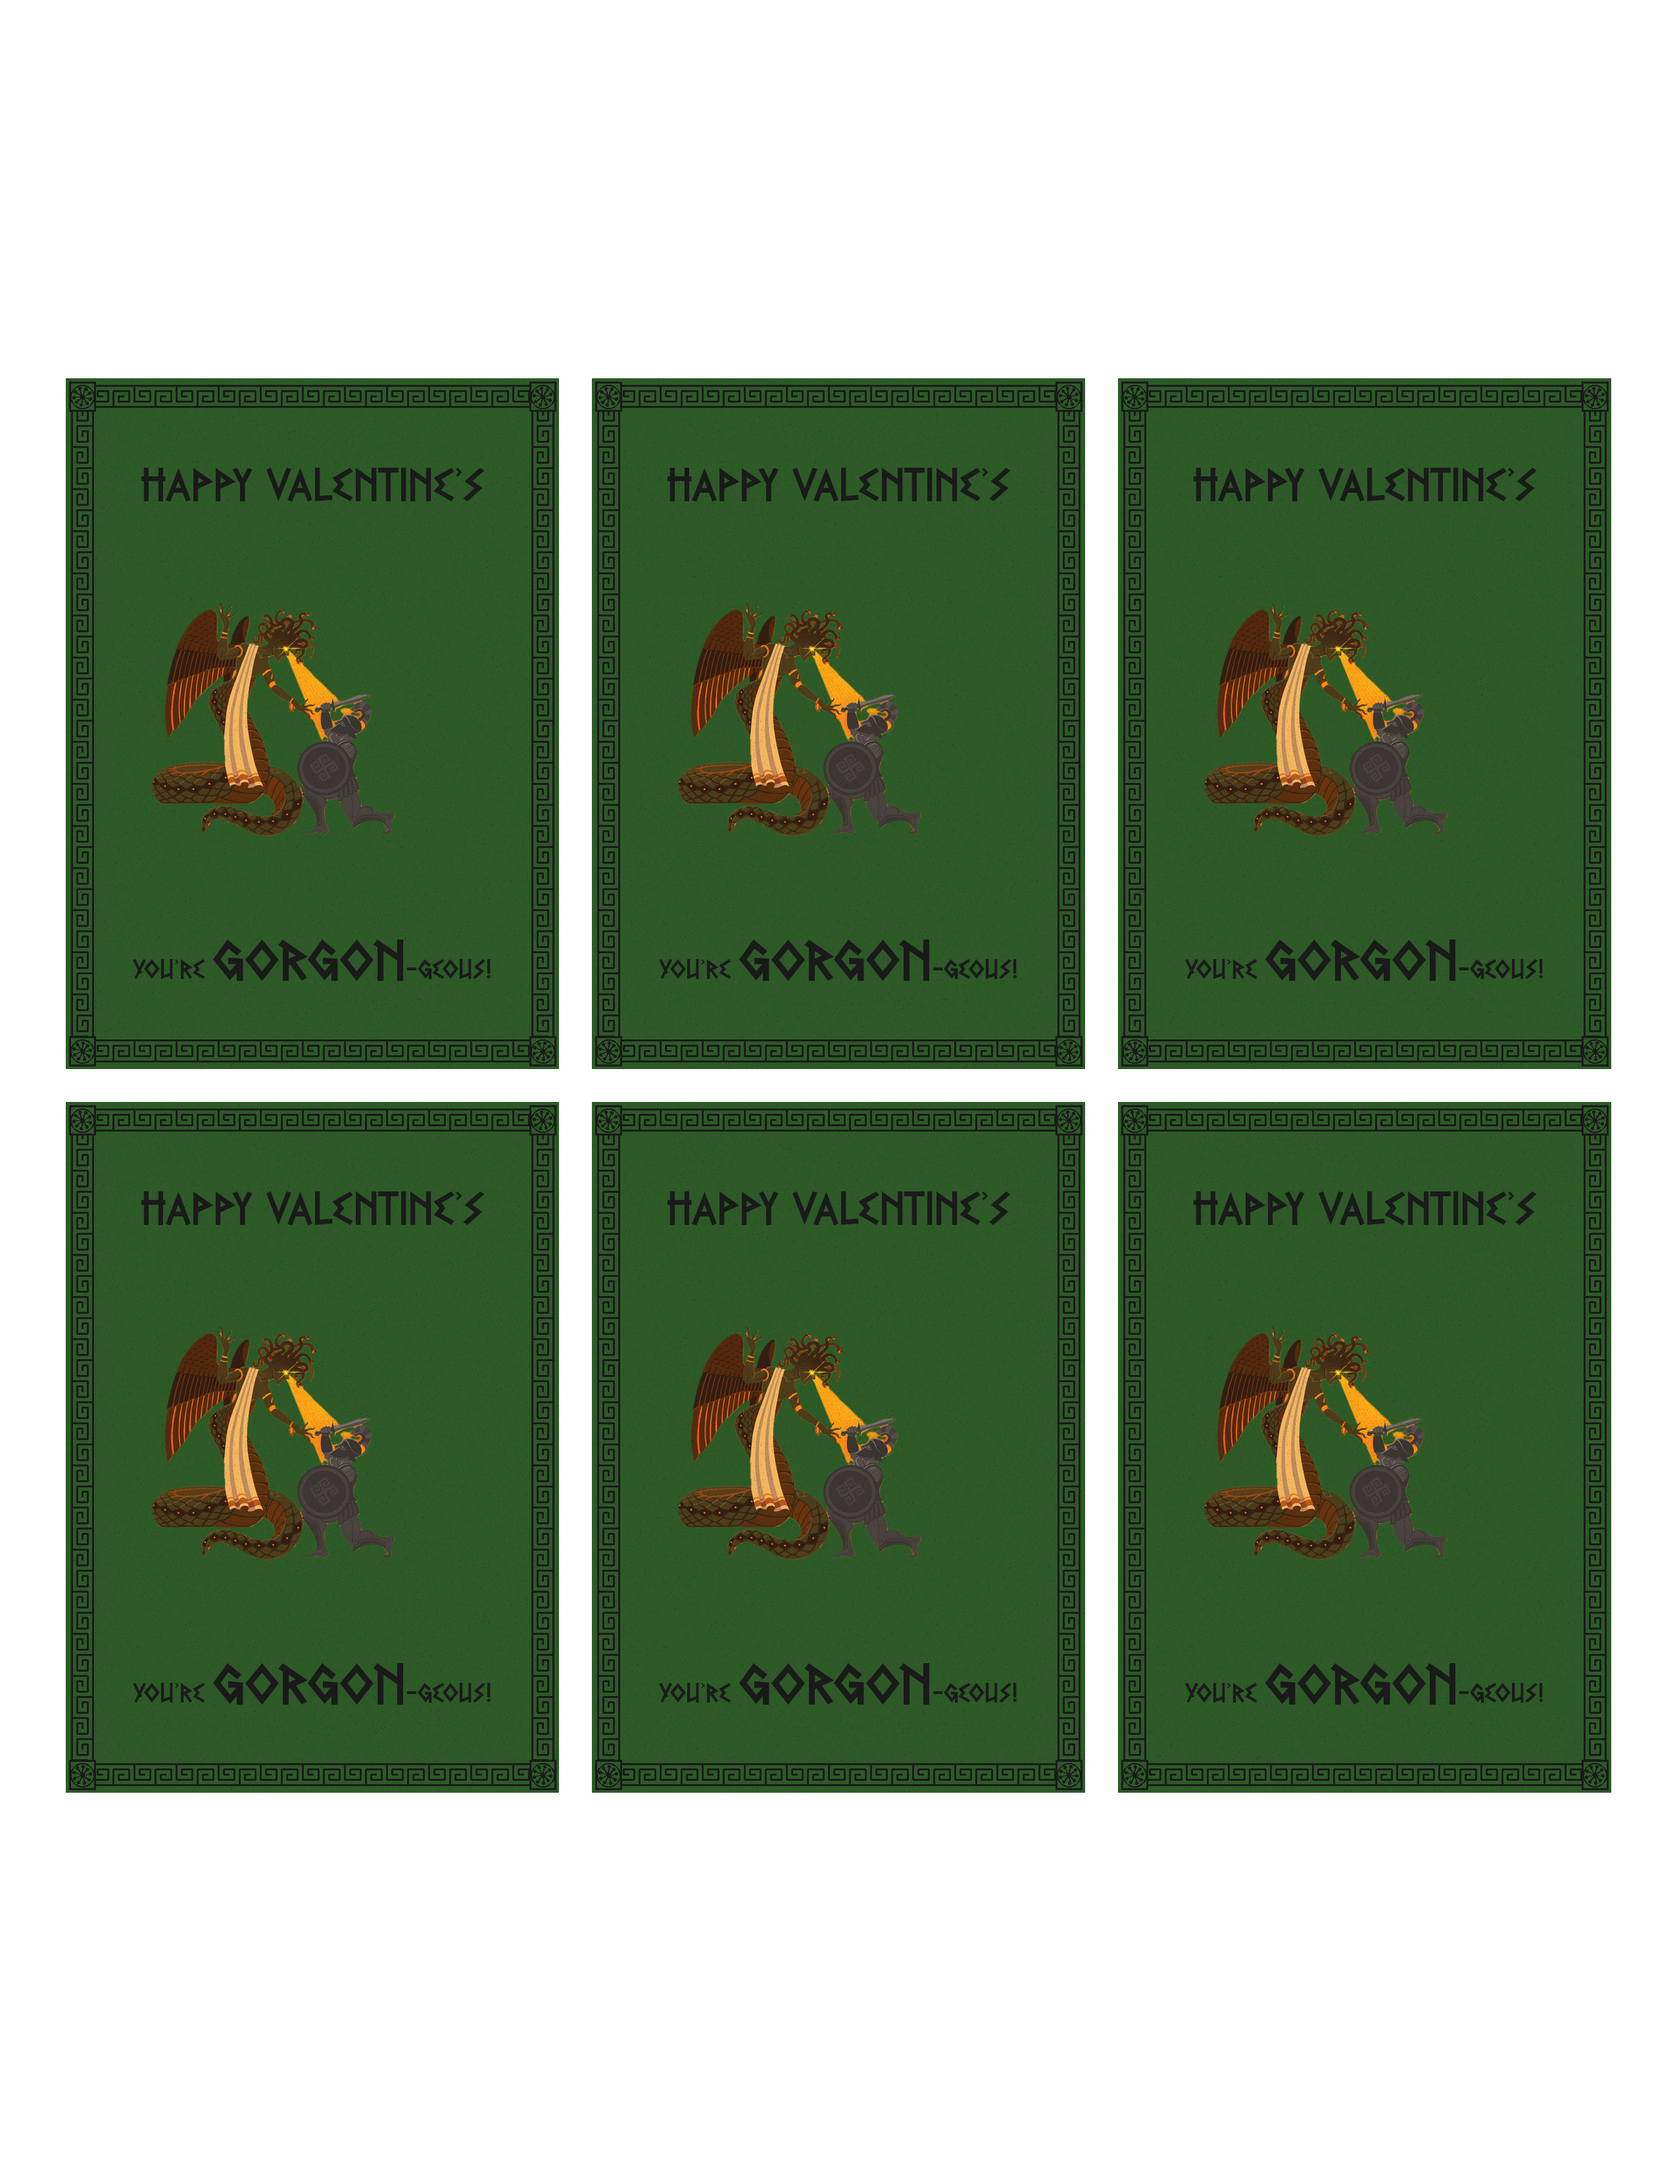
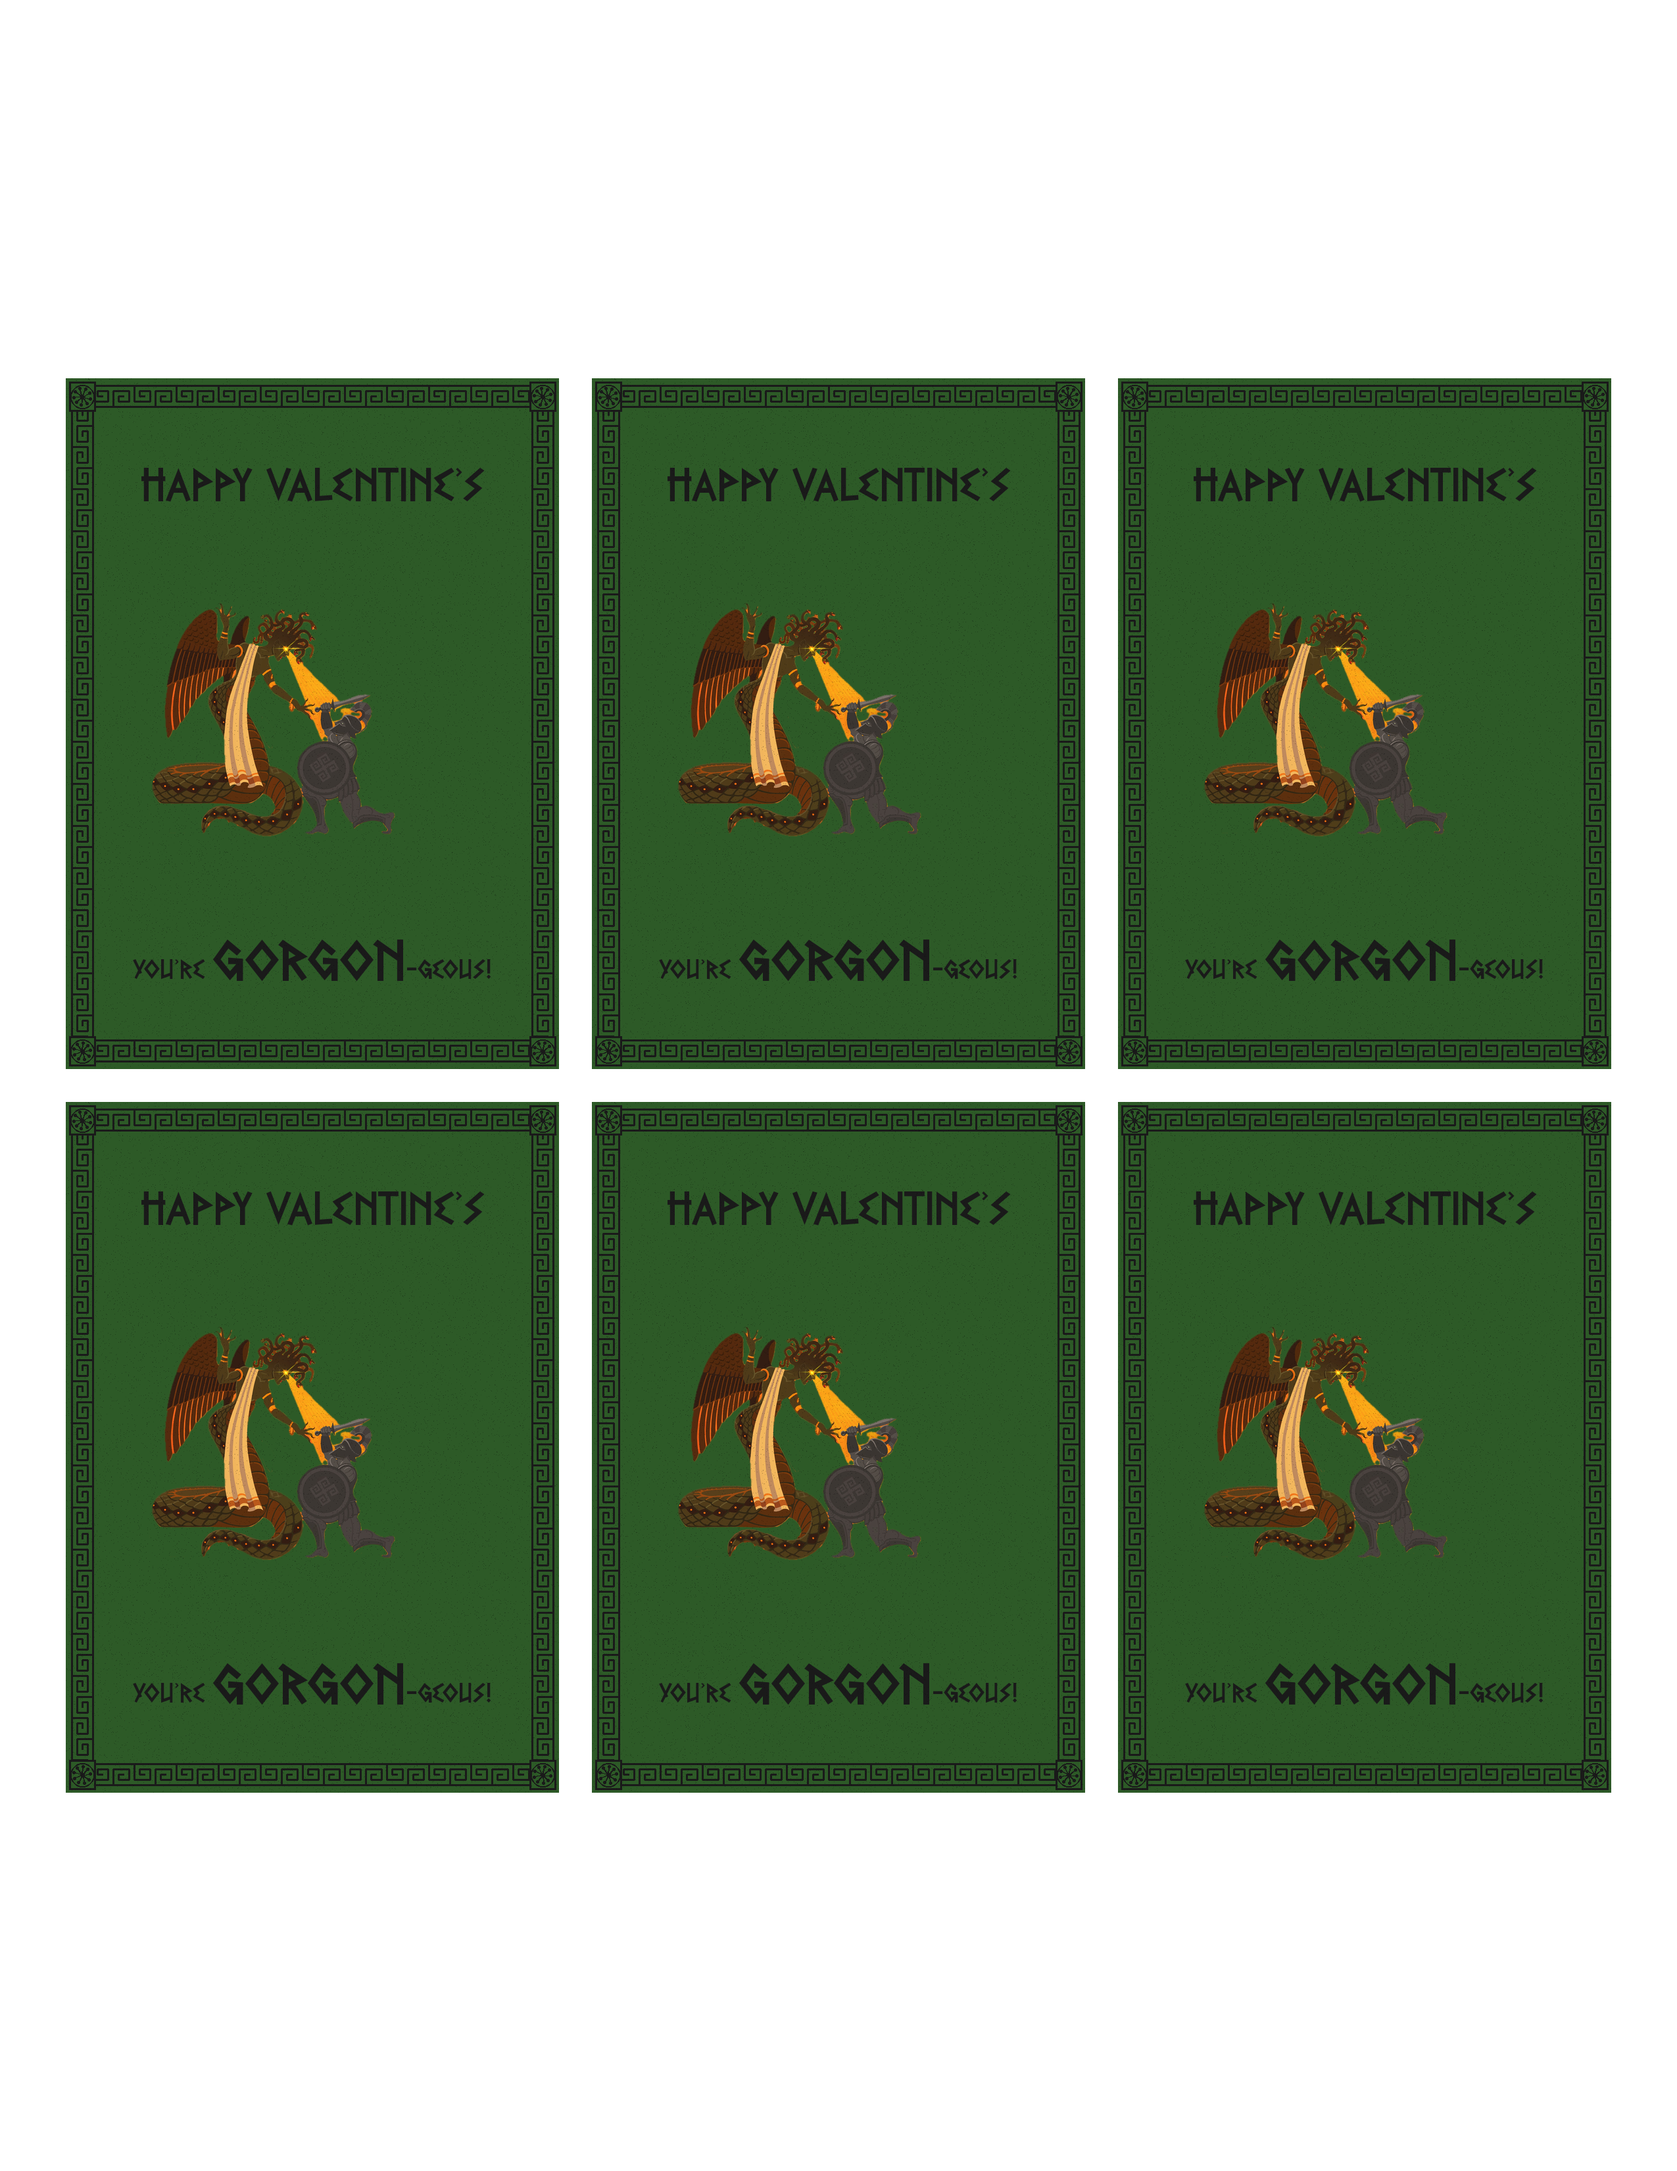
Fix snake head/tail positioning to connect with maze walls

diff --git a/src/greek_design_system.py b/src/greek_design_system.py
@@ -604,19 +604,23 @@ def generate_greek_card_back(
     if wall_type == "snake":
         from wall_renderers import SnakeWallRenderer
 
-        # Calculate entrance/exit positions
+        # Calculate entrance/exit positions - connect to the wall openings
         entrance_col = maze_cols // 2
+        # Head connects at the top of the maze entrance gap
         entrance_x = maze_x + entrance_col * cell_size + cell_size // 2
-        entrance_y = maze_y - 5
+        entrance_y = maze_y  # Right at the top edge of maze
 
+        # Tail connects at the bottom of the maze exit gap
         exit_x = entrance_x
-        exit_y = maze_y + maze_rows * cell_size + 5
+        exit_y = maze_y + maze_rows * cell_size  # Right at the bottom edge of maze
 
-        # Draw snake head at entrance (pointing down into maze)
-        SnakeWallRenderer.draw_snake_head(draw, entrance_x, entrance_y - 15, 30, wall_color, "down")
+        # Draw snake head entering the maze (pointing down, connected to entrance)
+        head_size = cell_size - 4  # Size to fit the opening
+        SnakeWallRenderer.draw_snake_head(draw, entrance_x, entrance_y - head_size // 2, head_size, wall_color, "down")
 
-        # Draw snake tail at exit (pointing down out of maze)
-        SnakeWallRenderer.draw_snake_tail(draw, exit_x, exit_y + 15, 25, wall_color, "down")
+        # Draw snake tail exiting the maze (pointing down, connected to exit)
+        tail_size = cell_size - 8
+        SnakeWallRenderer.draw_snake_tail(draw, exit_x, exit_y + tail_size // 2 + 5, tail_size, wall_color, "down")
 
     # Get text settings from config or use defaults
     if config:
